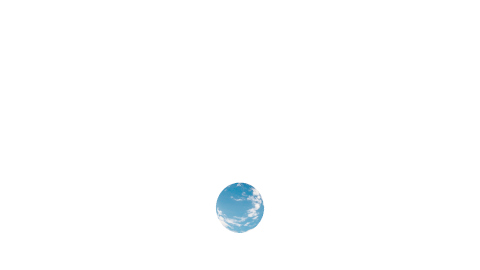
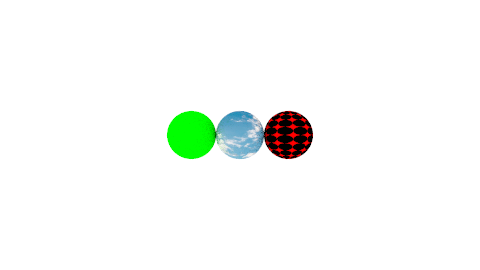
A9 pretty much done.

Changed region(s): [[0.3438, 0.4148, 0.6562, 0.5926], [0.4375, 0.6815, 0.5625, 0.8593]]

diff --git a/src/cgg/a10/PolkaTexture.java b/src/cgg/a10/PolkaTexture.java
@@ -1,0 +1,61 @@
+package cgg.a10;
+
+import cgtools.Color;
+import cgtools.Point;
+import cgtools.Sampler;
+import cgtools.Vector;
+
+// public record PolkaTexture(int n, Color fgColor, Color bgColor, double radius) implements Sampler {
+
+// 	// @Override
+// 	// public Color getColor(double u, double v) {
+// 	// 	int ui = (int)((u % 1) * n);
+// 	// 	int vi = (int)((v % 1) * n);
+// 	// 	if ((ui + vi) % 2 == 0) {
+// 	// 		// return new Color(1, 1, 1);
+// 	// 		if (Vector.length(Vector.subtract(new Point(u, v, 0), new Point(ui, vi, 0))) < radius) return fgColor;
+// 	// 	} else {
+// 	// 		// return new Color(0, 0, 0);
+// 	// 		if (Vector.length(Vector.subtract(new Point(u, v, 0), new Point(ui, vi, 0))) < radius) return fgColor;
+// 	// 	}
+// 	// 	return bgColor;
+// 	// }
+	
+// 	@Override
+// 	public Color getColor(double u, double v) {
+// 		// Convert u, v to grid coordinates
+// 		double ui = (u % 1) * n;
+// 		double vi = (v % 1) * n;
+	
+// 		// Calculate the center of the nearest cell
+// 		double centerX = Math.floor(ui) + 0.5;
+// 		double centerY = Math.floor(vi) + 0.5;
+	
+// 		// Check if the point is within the radius of the dot's center
+// 		if (Vector.length(Vector.subtract(new Point(u, v, 0), new Point(centerX, centerY, 0))) < radius) {
+// 			return fgColor;
+// 		}
+	
+// 		return bgColor;
+// 	}
+// }
+
+public record PolkaTexture(Color fgColor, Color bgColor, double radius) implements Sampler {
+
+    @Override
+    public Color getColor(double u, double v) {
+        // Calculate position in the pattern space
+        double patternU = u % (2 * radius);
+        double patternV = v % (2 * radius);
+
+        // Calculate the distance from the center of the nearest dot
+        double distanceFromCenter = Vector.length(Vector.subtract(new Point(patternU, patternV, 0), new Point(radius, radius, 0)));
+
+        // Check if the point is within the radius of the dot's center
+        if (distanceFromCenter < radius) {
+            return fgColor;
+        }
+
+        return bgColor;
+    }
+}

diff --git a/src/cgg/a10/Main.java b/src/cgg/a10/Main.java
@@ -15,8 +15,8 @@ import cgtools.Camera;
 import cgtools.Color;
 import cgtools.Direction;
 import cgtools.Image;
-import cgtools.ImageTexture;
 import cgtools.Matrix;
+import cgtools.Point;
 import cgtools.Sampler;
 import cgtools.Vector;
 
@@ -39,22 +39,23 @@ public class Main {
 
 	public static void scene() {
 		System.out.println("scene");
-		Sampler texture = new ImageTexture("img/sky.jpg");
+		// Sampler texture = new ImageTexture("img/sky.jpg");
+		Sampler texture = new Texture("img/sky.jpg");
 		// System.out.println(texture.getColor(0.5, 0.5));
 		
 		Matrix viewingMatrix = Matrix.multiply(
 			Matrix.translation(new Direction(0, -0, 0)),
 			// Matrix.rotation(Vector.zAxis, 20),
 			// Matrix.rotation(Vector.xAxis, 20),
-			Matrix.translation(new Direction(0, 3, 10))
+			Matrix.translation(new Direction(0, 0, 10))
 		);
 		Camera camera = new Camera(Math.PI / 2, width, height, viewingMatrix);
 
 		List<Shape> sceneList = new ArrayList<>(2);
 		sceneList.add(new Background(new MaterialBackground(new Constant(Vector.white)))); // BACKGROUND
-		// sceneList.add(new Disc(Vector.zero, Vector.zAxis, 3, new MaterialDiffuse(texture)));
-		// sceneList.add(new Plane(Vector.zero, Vector.zAxis, 3, 5, new MaterialDiffuse(texture)));
+		sceneList.add(new Sphere(new Point(-2, 0, 0), 1, new MaterialDiffuse(new Constant(Vector.green))));
 		sceneList.add(new Sphere(Vector.zero, 1, new MaterialDiffuse(texture)));
+		sceneList.add(new Sphere(new Point(2, 0, 0), 1, new MaterialDiffuse(new PolkaTexture(Vector.black, Vector.red, 0.05))));
 		
 		Group scene = new Group(sceneList);//, new Transformation(Matrix.translation(new Direction(0, 0, 0))));
 

diff --git a/src/cgg/a10/Texture.java b/src/cgg/a10/Texture.java
@@ -1,19 +1,20 @@
 package cgg.a10;
 
 import cgtools.Color;
+import cgtools.ImageTexture;
 import cgtools.Sampler;
 
 public class Texture implements Sampler {
 
-	private Color color;
+	private ImageTexture texture;
 
-	public Texture(Color color) {
-		this.color = color;
+	public Texture(String filename) {
+		this.texture = new ImageTexture(filename);
 	}
 
 	@Override
 	public Color getColor(double x, double y) {
-		return color;
+		return texture.getColor(x, y);
 	}
 	
 }

diff --git a/src/cgg/a10/BoardTexture.java b/src/cgg/a10/BoardTexture.java
@@ -1,0 +1,20 @@
+package cgg.a10;
+
+import cgtools.Color;
+import cgtools.Sampler;
+
+public record BoardTexture(int n) implements Sampler {
+
+	@Override
+	public Color getColor(double u, double v) {
+		int ui = (int)((u % 1) * n);
+		int vi = (int)((v % 1) * n);
+		if ((ui + vi) % 2 == 0) {
+			return new Color(1, 1, 1);
+		} else {
+			return new Color(0, 0, 0);
+		}
+	}
+	
+
+}
